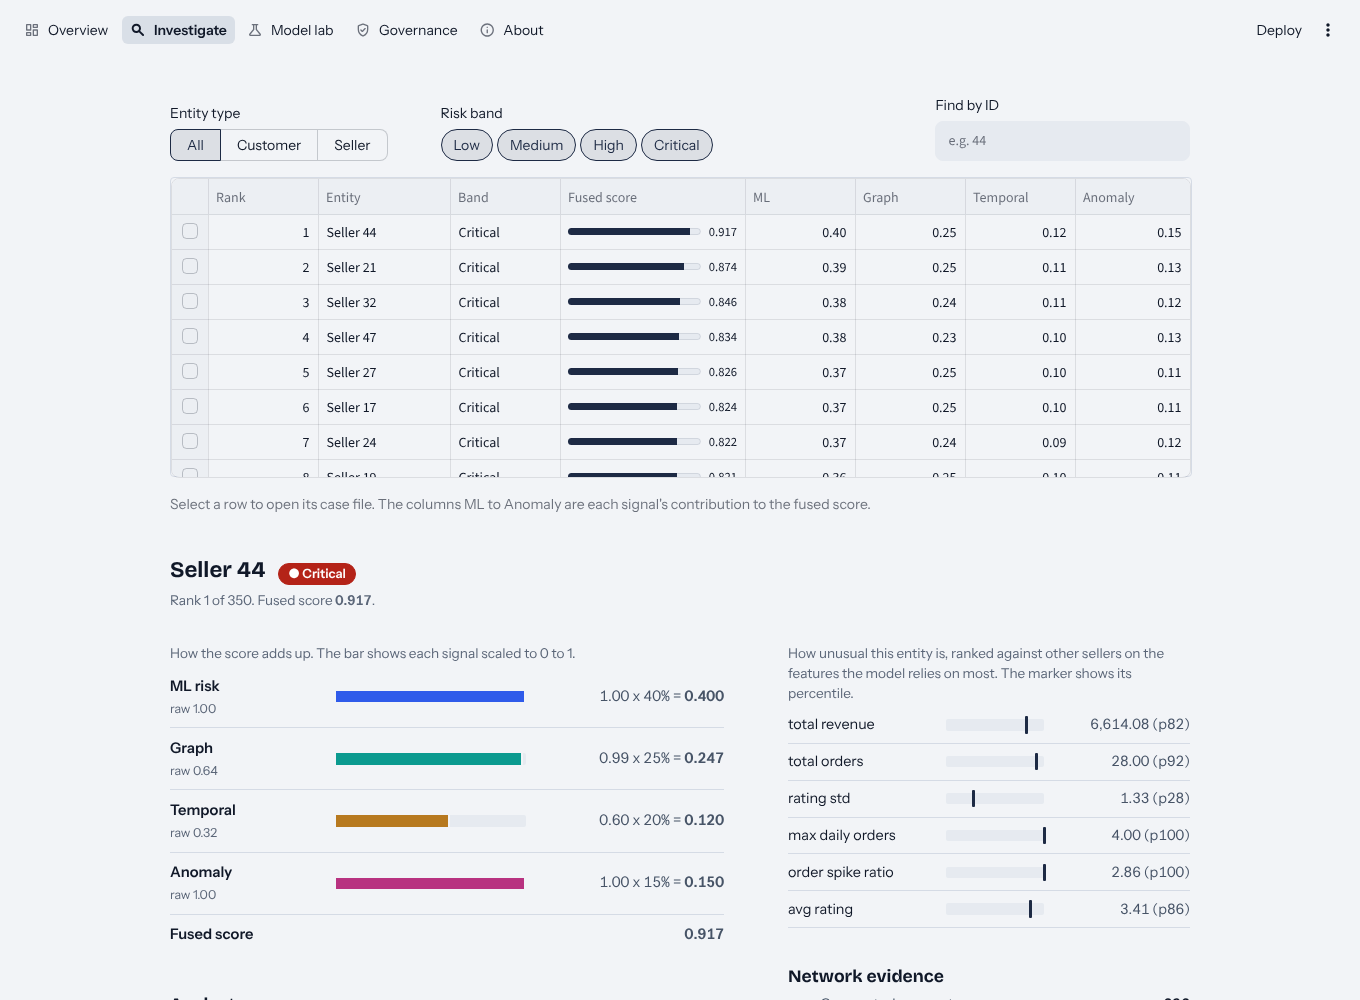
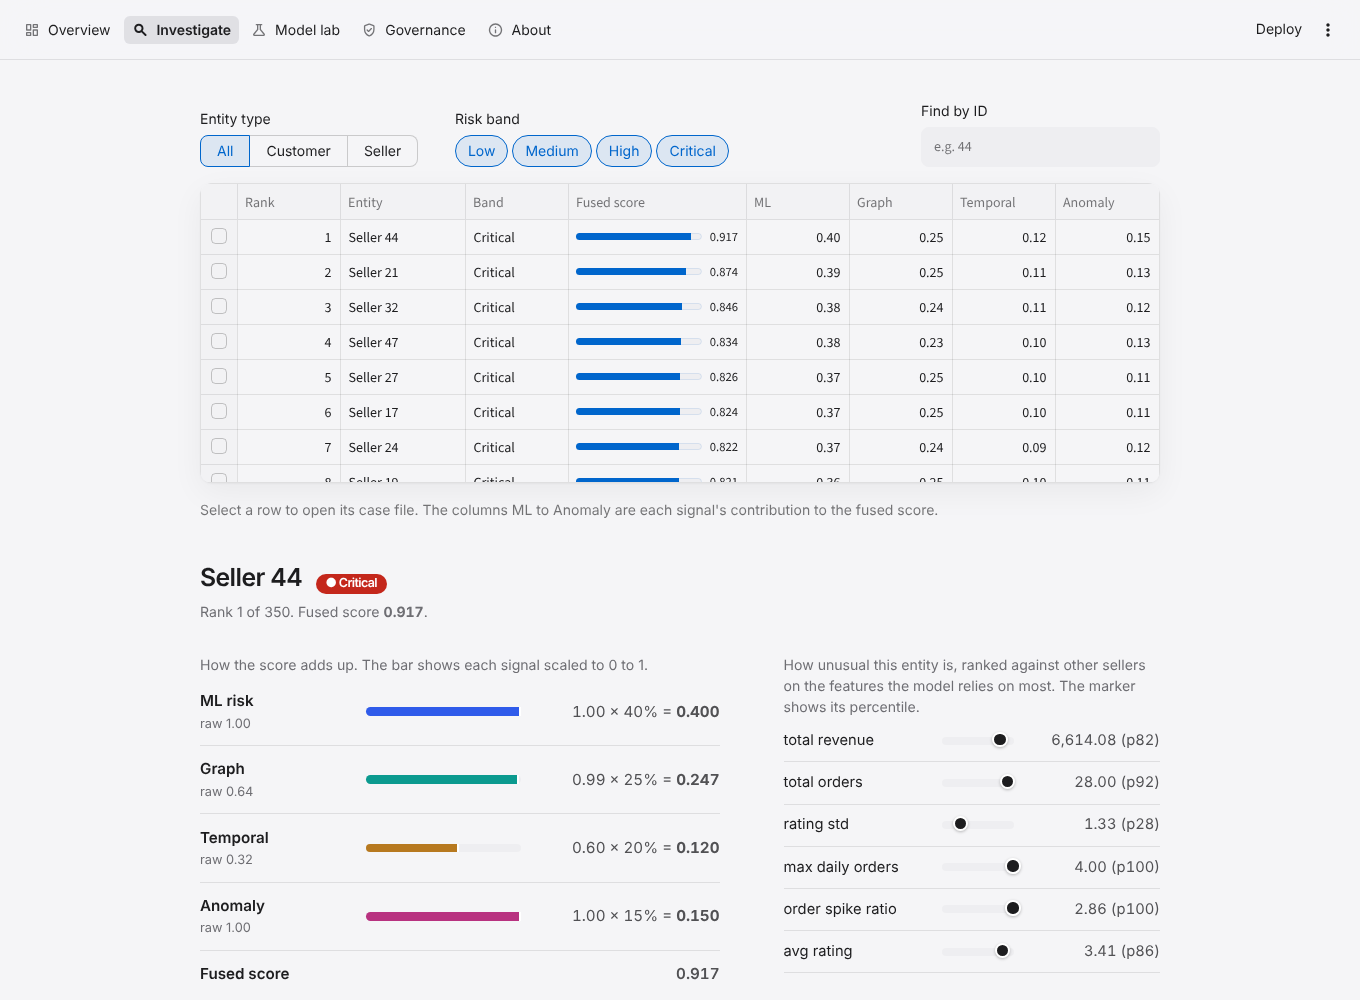
Restyle app with a neutral, Apple-like design system; open what-if on a responsive case

diff --git a/src/mri/app/theme.py b/src/mri/app/theme.py
@@ -22,98 +22,124 @@ BAND_GLYPH = {"Low": "○", "Medium": "◔", "High": "◑", "Critical": "●"}
 
 CSS = """
 <style>
-@import url('https://fonts.googleapis.com/css2?family=Bricolage+Grotesque:opsz,wght@12..96,500;12..96,700&family=Instrument+Sans:wght@400;500;600&display=swap');
+@import url('https://fonts.googleapis.com/css2?family=Inter:wght@400;500;600;700&display=swap');
 :root{
-  --canvas:#F2F4F7; --ink:#101828; --ink2:#475467; --ink3:#5B6678; --rule:#D5DBE5; --navy:#1D2A44;
+  /* surfaces and ink (neutral, Apple-like) */
+  --canvas:#F5F5F7; --surface:#FFFFFF; --ink:#1D1D1F; --ink2:#515154; --ink3:#6E6E73;
+  --hair:rgba(0,0,0,.09); --rule:rgba(0,0,0,.09); --fill:#EEEEF1; --accent:#0066CC; --navy:#1D1D1F;
+  /* signal identity colours (validated) */
   --ml:#2F5BEA; --graph:#0B9A8F; --temporal:#B7791F; --anomaly:#B83280;
-  --b-low:#C9D1DD; --b-medium:#8D9BB3; --b-high:#44567A; --b-critical:#B42318;
-  --display:'Bricolage Grotesque','Instrument Sans',system-ui,sans-serif;
-  --body:'Instrument Sans',system-ui,-apple-system,'Segoe UI',sans-serif;
+  --b-low:#D2D2D7; --b-medium:#98989D; --b-high:#3A3A3C; --b-critical:#C4271B;
+  --r-lg:20px; --r-md:12px; --r-sm:8px;
+  --shadow:0 1px 2px rgba(0,0,0,.04), 0 10px 32px rgba(0,0,0,.05);
+  --font:-apple-system,BlinkMacSystemFont,'SF Pro Text','SF Pro Display','Inter','Segoe UI',system-ui,sans-serif;
+  --display:var(--font); --body:var(--font);
 }
-html, body, .stApp, [data-testid="stAppViewContainer"]{background:var(--canvas); color:var(--ink); font-family:var(--body);}
-[data-testid="stHeader"]{background:var(--canvas);}
-.block-container, [data-testid="stMainBlockContainer"]{max-width:1180px; padding-top:4.8rem !important; padding-bottom:4rem;}
+html, body, .stApp, [data-testid="stAppViewContainer"]{background:var(--canvas); color:var(--ink); font-family:var(--font); -webkit-font-smoothing:antialiased;}
+[data-testid="stHeader"]{background:rgba(245,245,247,.78); backdrop-filter:saturate(180%) blur(20px); -webkit-backdrop-filter:saturate(180%) blur(20px); border-bottom:1px solid var(--hair);}
+.block-container, [data-testid="stMainBlockContainer"]{max-width:1120px; padding-top:5.2rem !important; padding-bottom:5rem;}
 footer{visibility:hidden;}
-h1,h2,h3,h4{font-family:var(--display); color:var(--ink); letter-spacing:-0.012em;}
-p,li,label,span,div{font-family:var(--body);}
+h1,h2,h3,h4{font-family:var(--font); color:var(--ink); letter-spacing:-0.022em;}
+p,li,label,span,div{font-family:var(--font);}
 .num{font-variant-numeric:tabular-nums;}
 
-/* headings */
-.mri-h1{font-family:var(--display); font-weight:700; font-size:2.55rem; line-height:1.08; margin:.2rem 0 .5rem; max-width:22ch;}
-.mri-h2{font-family:var(--display); font-weight:700; font-size:1.4rem; line-height:1.2; margin:2.4rem 0 .35rem;}
-.mri-lede{color:var(--ink2); font-size:1.05rem; line-height:1.55; max-width:62ch; margin:0 0 1.4rem;}
-.mri-note{color:var(--ink3); font-size:.85rem; line-height:1.5; max-width:70ch;}
-.mri-rule{border:0; border-top:1px solid var(--rule); margin:1.6rem 0;}
-.mri-prose{max-width:68ch; line-height:1.65; color:var(--ink); font-size:1rem;}
+/* type scale */
+.mri-h1{font-weight:700; font-size:3rem; line-height:1.06; letter-spacing:-0.035em; margin:.4rem 0 .8rem; max-width:20ch;}
+.mri-h2{font-weight:600; font-size:1.55rem; line-height:1.2; letter-spacing:-0.024em; margin:3rem 0 .4rem;}
+.mri-lede{color:var(--ink3); font-size:1.2rem; line-height:1.5; letter-spacing:-0.011em; max-width:56ch; margin:0 0 1.8rem;}
+.mri-note{color:var(--ink3); font-size:.88rem; line-height:1.5; max-width:70ch;}
+.mri-rule{border:0; border-top:1px solid var(--hair); margin:1.6rem 0;}
+.mri-prose{max-width:66ch; line-height:1.6; color:var(--ink); font-size:1.05rem;}
 .mri-prose p{margin:0 0 .9rem;}
-.mri-prose h3{font-size:1.15rem; margin:1.6rem 0 .4rem;}
-.mri-prose ul{margin:.2rem 0 1rem 1.1rem; padding:0;} .mri-prose li{margin:.25rem 0;}
-.mri-prose a{color:var(--ml);}
+.mri-prose h3{font-size:1.2rem; font-weight:600; margin:1.8rem 0 .4rem;}
+.mri-prose ul{margin:.2rem 0 1rem 1.1rem; padding:0;} .mri-prose li{margin:.3rem 0;}
+.mri-prose a, .mri-note a{color:var(--accent); text-decoration:none;} .mri-prose a:hover{text-decoration:underline;}
+
+/* panels: st.container(key="panel_*") */
+[class*="st-key-panel"]{background:var(--surface); border-radius:var(--r-lg); box-shadow:var(--shadow); padding:1.6rem 1.8rem 1.4rem; margin:.4rem 0 1rem;}
 
 /* band chip: label + glyph + colour, never colour alone */
-.chip{display:inline-flex; align-items:center; gap:.4rem; font-size:.8rem; font-weight:600; padding:.12rem .55rem .14rem; border-radius:999px; border:1.5px solid currentColor; white-space:nowrap;}
-.chip-Low{color:#475467;} .chip-Medium{color:#3B4A63;} .chip-High{color:#2C3C5E; background:#E3E8F1;} .chip-Critical{color:#fff; background:var(--b-critical); border-color:var(--b-critical);}
-.tag{display:inline-block; font-size:.78rem; padding:.1rem .5rem; border:1px solid var(--rule); border-radius:4px; color:var(--ink2); background:#fff; margin:0 .3rem .3rem 0;}
+.chip{display:inline-flex; align-items:center; gap:.35rem; font-size:.78rem; font-weight:600; padding:.18rem .6rem; border-radius:999px; white-space:nowrap; background:var(--fill); color:var(--ink2);}
+.chip-Medium{background:#EDEDF0; color:#424245;} .chip-High{background:#3A3A3C; color:#fff;} .chip-Critical{background:var(--b-critical); color:#fff;}
+.tag{display:inline-block; font-size:.8rem; padding:.2rem .65rem; border-radius:999px; color:var(--ink2); background:var(--fill); margin:0 .35rem .35rem 0;}
+
+/* KPI tiles */
+.kpis{display:grid; grid-template-columns:repeat(4,1fr); gap:1rem; margin:.4rem 0 1rem;}
+.kpi{background:var(--surface); border-radius:var(--r-lg); box-shadow:var(--shadow); padding:1.2rem 1.4rem 1.1rem;}
+.kpi .v{font-size:2.6rem; font-weight:700; letter-spacing:-0.035em; line-height:1.05;}
+.kpi .l{display:flex; align-items:center; gap:.4rem; color:var(--ink3); font-size:.9rem; margin-top:.3rem;}
+.kpi .s{color:var(--ink3); font-size:.8rem; margin-top:.15rem;}
+.kpi.crit .v{color:var(--b-critical);}
+@media (max-width:760px){ .kpis{grid-template-columns:repeat(2,1fr);} .mri-h1{font-size:2.2rem;} }
 
 /* band strip */
-.strip{display:flex; gap:2px; height:2.1rem; margin:.5rem 0 .3rem;}
+.strip{display:flex; gap:3px; height:.7rem; margin:.6rem 0 .4rem; border-radius:999px; overflow:hidden;}
 .strip > div{min-width:3px;}
-.strip-labels{display:flex; gap:2px; font-size:.82rem; color:var(--ink2);}
+.strip-labels{display:flex; gap:3px; font-size:.82rem; color:var(--ink3);}
 .strip-labels > div{overflow:visible; white-space:nowrap;}
 .strip-labels b{color:var(--ink); font-weight:600;}
 
 /* signal legend */
-.legend{display:flex; flex-wrap:wrap; gap:.4rem 1.4rem; font-size:.88rem; color:var(--ink2); margin:.2rem 0 .6rem;}
-.legend i{display:inline-block; width:.8rem; height:.8rem; border-radius:2px; margin-right:.4rem; vertical-align:-1px;}
+.legend{display:flex; flex-wrap:wrap; gap:.4rem 1.4rem; font-size:.88rem; color:var(--ink3); margin:.2rem 0 .8rem;}
+.legend i{display:inline-block; width:.7rem; height:.7rem; border-radius:50%; margin-right:.4rem; vertical-align:0;}
 
 /* case board */
-.board{margin-top:.4rem;}
+.board{margin-top:.2rem;}
 .board-head, .board-row{display:grid; grid-template-columns:2rem 11.5rem 6.6rem 1fr 3.4rem; gap:0 .9rem; align-items:center;}
-.board-head{font-size:.78rem; color:var(--ink3); padding:0 0 .35rem; border-bottom:1px solid var(--rule);}
-.board-row{padding:.5rem 0; border-bottom:1px solid var(--rule); font-size:.92rem;}
-.board-row:hover{background:#E9EDF3;}
-.board-row .rk{color:var(--ink3);} .board-row .ent b{font-weight:600;} .board-row .ent span{display:block; color:var(--ink3); font-size:.78rem; margin-top:.05rem;}
+.board-head{font-size:.78rem; color:var(--ink3); padding:0 .5rem .45rem; border-bottom:1px solid var(--hair);}
+.board-row{padding:.7rem .5rem; border-bottom:1px solid var(--hair); font-size:.95rem; border-radius:var(--r-sm); transition:background .18s ease;}
+.board-row:last-child{border-bottom:0;}
+.board-row:hover{background:#F5F5F7;}
+.board-row .rk{color:var(--ink3);} .board-row .ent b{font-weight:600;} .board-row .ent span{display:block; color:var(--ink3); font-size:.8rem; margin-top:.05rem;}
 .board-row .sc{text-align:right; font-weight:600;}
 .axis{position:relative; height:1rem;} .axis span{position:absolute; transform:translateX(-50%); font-size:.72rem; color:var(--ink3); top:0;}
-.track{position:relative; height:.85rem; background:#E6EAF0; border-radius:2px;}
-.track .seg{position:absolute; top:0; height:100%; border-right:2px solid var(--canvas);}
-.track .tick{position:absolute; top:-3px; bottom:-3px; width:0; border-left:1px dashed #98A2B3;}
+.track{position:relative; height:.6rem; background:var(--fill); border-radius:999px; overflow:visible;}
+.track .seg{position:absolute; top:0; height:100%; border-right:2px solid var(--surface);}
+.track .seg:first-of-type{border-radius:999px 0 0 999px;}
+.track .tick{position:absolute; top:-4px; bottom:-4px; width:0; border-left:1px dashed #AEAEB2;}
 @media (max-width: 760px){ .board-head, .board-row{grid-template-columns:1.6rem 8rem 1fr 3rem;} .board-head .h-band, .board-row .bd{display:none;} }
 
 /* contribution rows in the case file */
-.contrib{display:grid; grid-template-columns:9.5rem 1fr 11.5rem; gap:.2rem .9rem; align-items:center; padding:.55rem 0; border-bottom:1px solid var(--rule); font-size:.92rem;}
-.contrib .nm b{font-weight:600;} .contrib .nm span{display:block; color:var(--ink3); font-size:.78rem;}
+.contrib{display:grid; grid-template-columns:9.5rem 1fr 11.5rem; gap:.2rem .9rem; align-items:center; padding:.7rem 0; border-bottom:1px solid var(--hair); font-size:.95rem;}
+.contrib .nm b{font-weight:600;} .contrib .nm span{display:block; color:var(--ink3); font-size:.8rem;}
 .contrib .eq{color:var(--ink2); text-align:right;}
-.contrib .track{height:.7rem;}
+.contrib .track{height:.55rem;}
 .contrib.total{border-bottom:0; font-weight:600;}
 
 /* percentile rows */
-.pct{display:grid; grid-template-columns:9rem 1fr 8.2rem; gap:.2rem .9rem; align-items:center; padding:.4rem 0; font-size:.9rem; border-bottom:1px solid var(--rule);}
-.pct .pt{position:relative; height:.7rem; background:#E6EAF0; border-radius:2px;}
-.pct .pt i{position:absolute; top:-3px; width:3px; height:calc(100% + 6px); background:var(--navy); border-radius:1px;}
+.pct{display:grid; grid-template-columns:9rem 1fr 8.2rem; gap:.2rem .9rem; align-items:center; padding:.55rem 0; font-size:.92rem; border-bottom:1px solid var(--hair);}
+.pct .pt{position:relative; height:.5rem; background:var(--fill); border-radius:999px;}
+.pct .pt i{position:absolute; top:-5px; width:.95rem; height:.95rem; margin-left:-.47rem; background:var(--ink); border:2px solid var(--surface); border-radius:50%; box-shadow:0 1px 3px rgba(0,0,0,.25);}
 .pct .pv{text-align:right; color:var(--ink2);}
 
 /* definition grid */
-.dl{display:grid; grid-template-columns:1fr auto; gap:.3rem 1rem; font-size:.92rem; max-width:26rem;}
-.dl dt{color:var(--ink2);} .dl dd{margin:0; text-align:right; font-weight:600;}
+.dl{display:grid; grid-template-columns:1fr auto; gap:.3rem 1rem; font-size:.95rem; max-width:26rem;}
+.dl dt{color:var(--ink3);} .dl dd{margin:0; text-align:right; font-weight:600;}
 
 /* quote */
-.quote{border-left:3px solid var(--navy); padding:.2rem 0 .2rem 1rem; color:var(--ink); max-width:64ch; line-height:1.6; margin:.4rem 0 1rem;}
+.quote{background:var(--fill); border-radius:var(--r-md); padding:1rem 1.2rem; color:var(--ink); max-width:64ch; line-height:1.6; margin:.4rem 0 1rem;}
 
 /* comparison table */
-.cmp{width:100%; border-collapse:collapse; font-size:.92rem; max-width:44rem;}
-.cmp th{font-weight:500; color:var(--ink3); font-size:.8rem; text-align:right; padding:.3rem .6rem; border-bottom:1px solid var(--rule);} .cmp th:first-child{text-align:left; padding-left:0;}
-.cmp td{padding:.5rem .6rem; text-align:right; border-bottom:1px solid var(--rule);} .cmp td:first-child{text-align:left; padding-left:0; color:var(--ink2);}
+.cmp{width:100%; border-collapse:collapse; font-size:.95rem; max-width:44rem;}
+.cmp th{font-weight:500; color:var(--ink3); font-size:.8rem; text-align:right; padding:.3rem .6rem; border-bottom:1px solid var(--hair);} .cmp th:first-child{text-align:left; padding-left:0;}
+.cmp td{padding:.65rem .6rem; text-align:right; border-bottom:1px solid var(--hair);} .cmp td:first-child{text-align:left; padding-left:0; color:var(--ink2);}
 .up{color:var(--b-critical); font-weight:600;} .down{color:#067647; font-weight:600;}
 
 /* callout */
-.callout{border:1px solid var(--rule); border-left:4px solid var(--temporal); background:#fff; padding:.8rem 1rem; max-width:70ch; font-size:.92rem; line-height:1.55; margin:.6rem 0 1rem;}
+.callout{background:#FFF7E6; border-radius:var(--r-md); padding:.9rem 1.1rem; max-width:70ch; font-size:.92rem; line-height:1.55; margin:.6rem 0 1rem; color:#4A3B12;}
+
+/* signal tiles */
+.sig{background:var(--surface); border-radius:var(--r-lg); box-shadow:var(--shadow); padding:1.1rem 1.2rem; height:100%;}
+.sig .dot{display:inline-block; width:.7rem; height:.7rem; border-radius:50%; margin-right:.45rem;}
+.sig b{font-size:1rem; font-weight:600;} .sig .w{color:var(--ink3); margin-left:.3rem;}
+.sig p{color:var(--ink3); font-size:.88rem; line-height:1.5; margin:.45rem 0 0;}
 
 /* streamlit widget tuning */
-[data-testid="stDataFrame"]{border:1px solid var(--rule); border-radius:4px;}
-.stButton>button, .stDownloadButton>button{border-radius:4px; border:1.5px solid var(--navy); color:var(--navy); background:transparent; font-weight:600;}
-.stButton>button:hover, .stDownloadButton>button:hover{background:var(--navy); color:#fff; border-color:var(--navy);}
-.stButton>button:focus-visible, .stDownloadButton>button:focus-visible, button:focus-visible{outline:3px solid var(--ml); outline-offset:2px;}
+[data-testid="stDataFrame"]{border:0; border-radius:var(--r-md); overflow:hidden; box-shadow:var(--shadow);}
+.stButton>button, .stDownloadButton>button{border-radius:999px; border:0; color:#fff; background:var(--accent); font-weight:500; padding:.45rem 1.2rem; transition:background .18s ease;}
+.stButton>button:hover, .stDownloadButton>button:hover{background:#0A5CB5; color:#fff;}
+.stButton>button:focus-visible, .stDownloadButton>button:focus-visible, button:focus-visible{outline:3px solid rgba(0,102,204,.45); outline-offset:2px;}
+[data-baseweb="select"] > div, [data-testid="stTextInput"] input{border-radius:var(--r-md);}
 @media (prefers-reduced-motion: reduce){ *{transition:none !important; animation:none !important;} }
 </style>
 """
@@ -132,7 +158,7 @@ def band_chip(band: str) -> str:
 
 
 def band_color(band: str) -> str:
-    return {"Low": "#C9D1DD", "Medium": "#8D9BB3", "High": "#44567A", "Critical": "#B42318"}[str(band)]
+    return {"Low": "#D2D2D7", "Medium": "#98989D", "High": "#3A3A3C", "Critical": "#C4271B"}[str(band)]
 
 
 def signal_legend(show_weights: bool = True) -> str:

diff --git a/src/mri/app/views/overview.py b/src/mri/app/views/overview.py
@@ -25,12 +25,28 @@ def render() -> None:
         f'<p class="mri-lede">{n} entities scored ({sellers} sellers, {customers} customers). Every score is the sum of four signals, '
         "so each case shows which signal pushed it up. All data in this demo is synthetic.</p>"
     )
+    tiles = []
+    for b, cls in (("Critical", " crit"), ("High", ""), ("Medium", ""), ("Low", "")):
+        c = int(counts.get(b, 0))
+        tiles.append(
+            f'<div class="kpi{cls}"><div class="v num">{c}</div>'
+            f'<div class="l">{theme.band_chip(b)}</div>'
+            f'<div class="s num">{c / n * 100:.0f}% of entities</div></div>'
+        )
+    st.html('<div class="kpis">' + "".join(tiles) + "</div>")
     st.html(theme.band_strip({str(k): int(v) for k, v in counts.items()}))
 
     st.html('<div class="mri-h2">Case board</div>'
             '<p class="mri-note">Entities ranked by fused score. Each bar is the score itself, split by what each signal contributed. '
             "Dashed lines mark the Medium, High and Critical thresholds.</p>")
-    top_n = st.slider("Entities shown", min_value=10, max_value=60, value=25, step=5)
+    with st.container(key="panel_board"):
+        top_n = st.slider("Entities shown", min_value=10, max_value=60, value=25, step=5)
+        _board(df, top_n)
+
+    _tail(df)
+
+
+def _board(df, top_n) -> None:
 
     rows = []
     for _, r in df.head(top_n).iterrows():
@@ -51,6 +67,9 @@ def render() -> None:
         + "".join(rows) + "</div>"
     )
 
+
+
+def _tail(df) -> None:
     st.html('<div class="mri-h2">Open a case</div>')
     c1, c2 = st.columns([3, 1], vertical_alignment="bottom")
     options = df["key"].tolist()
@@ -64,14 +83,9 @@ def render() -> None:
     st.html('<div class="mri-h2">How the score is built</div>'
             '<p class="mri-note">Each signal is rescaled to 0 to 1 across the population, multiplied by its weight, and added. '
             "Weights are set by hand in <code>mri.fusion.fuse</code>, not learned.</p>")
-    cells = "".join(
-        f'<div style="width:{s["weight"]*100:.0f}%;background:{s["color"]}"></div>' for s in theme.SIGNALS
-    )
-    st.html(f'<div class="strip" style="height:1.1rem">{cells}</div>')
     cols = st.columns(4)
-    for col, s in zip(cols, theme.SIGNALS):
+    for col, s_ in zip(cols, theme.SIGNALS):
         col.html(
-            f'<div style="border-top:3px solid {s["color"]};padding-top:.5rem">'
-            f'<b style="font-size:1rem">{esc(s["name"])}</b> <span class="num" style="color:var(--ink3)">{int(s["weight"]*100)}%</span>'
-            f'<p class="mri-note" style="margin:.3rem 0 0">{esc(s["blurb"])}</p></div>'
+            f'<div class="sig"><span class="dot" style="background:{s_["color"]}"></span><b>{esc(s_["name"])}</b>'
+            f'<span class="w num">{int(s_["weight"] * 100)}%</span><p>{esc(s_["blurb"])}</p></div>'
         )

diff --git a/src/mri/app/views/model_lab.py b/src/mri/app/views/model_lab.py
@@ -29,7 +29,11 @@ def render() -> None:
 
     # ---- what-if scorer
     st.html('<div class="mri-h2" style="margin-top:.4rem">What-if scorer</div>')
-    default_key = st.session_state.get("case_key", df.iloc[0]["key"])
+    # Open on a case whose score responds to the sliders: the supervised model is saturated at ~1.0 for most
+    # top-ranked entities, so those show no change. Pick the first High-band entity with headroom.
+    room = df[(df["fused_risk_band"] == "High") & (df["supervised_score"] < 0.99) & (df["anomaly_score"] < 0.6)]
+    fallback = (room.iloc[0] if len(room) else df.iloc[0])["key"]
+    default_key = st.session_state.get("case_key", fallback)
     keys = df["key"].tolist()
     key = st.selectbox("Entity", keys, index=keys.index(default_key) if default_key in keys else 0,
                        format_func=lambda k: keyed.loc[k, "label_text"])

diff --git a/src/mri/app/views/governance.py b/src/mri/app/views/governance.py
@@ -32,7 +32,7 @@ def render() -> None:
         note = f'<span class="up">{miss} missing</span>' if miss else '<span style="color:var(--ink3)">complete</span>'
         rows.append(
             f'<div class="contrib" style="grid-template-columns:10rem 1fr 9rem"><div class="nm"><b>{label}</b></div>'
-            f'<div class="track"><div class="seg" style="left:0;width:{c/total*100:.1f}%;background:#44567A"></div></div>'
+            f'<div class="track"><div class="seg" style="left:0;width:{c/total*100:.1f}%;background:#3A3A3C"></div></div>'
             f'<div class="eq num">{c} of {total}, {note}</div></div>'
         )
     st.html("".join(rows))
